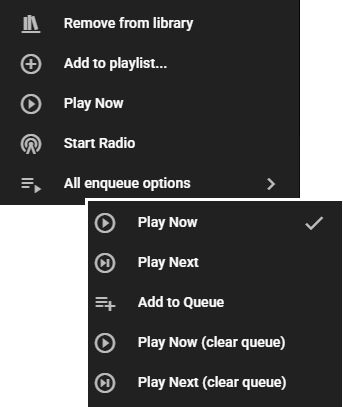
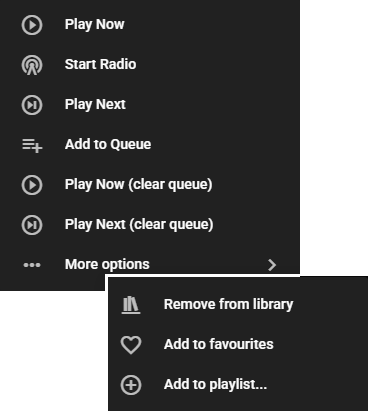
2.7.9 update (#509)
* Add ariacast receiver

* Update DLNA documentation with discovery notes

Clarify discovery option and timing for DLNA devices.

* Remove Ariacast Receiver Plugin from config

Removed Ariacast Receiver Plugin from the plugins list.

* update track menu image

* Add files via upload

* Update library image

* Add files via upload

diff --git a/src/content/docs/player-support/dlna.md b/src/content/docs/player-support/dlna.md
@@ -23,7 +23,7 @@ For information about the settings seen in the MA UI refer to the [Player Provid
 ## Known Issues / Notes
 
 - Some devices need special workarounds to enable playback. If playback is not working, look at the Music Assistant logs for clues and report an issue with these logs provided. Unfortunately due to the difficulty in resolving these issues they are low priority. If your device supports a different protocol then use that instead of raising an issue
-- If your device is not found then try turning on the option `allow network scan for discovery`
+- If your device is not found then try turning on the option `allow network scan for discovery`. Note it can take up to 5 mins for players to be discovered (this also applies if a device is turned back on)
 - DLNA speakers do not support crossfading of audio. If you want crossfade and/or full gapless support, [queue flow mode](/faq/tech-info/#track-queueing) must be enabled in the player's settings. Enabling flow mode may solve playback issues however it might come with the side effect of disabling actual physical buttons and/or display of metadata on the device itself
 - It is possible to group DLNA players via a [Universal Group](/faq/groups/#universal-groups) although they may not play in sync
 - Although Sonos devices are strictly also based on DLNA, they created their own extra layer on top of that such as crossfade support and many other goodies. It is therefore advised to use the Sonos Player provider with Music Assistant instead of the DLNA provider. MA disables any discovered Sonos DLNA devices by default
